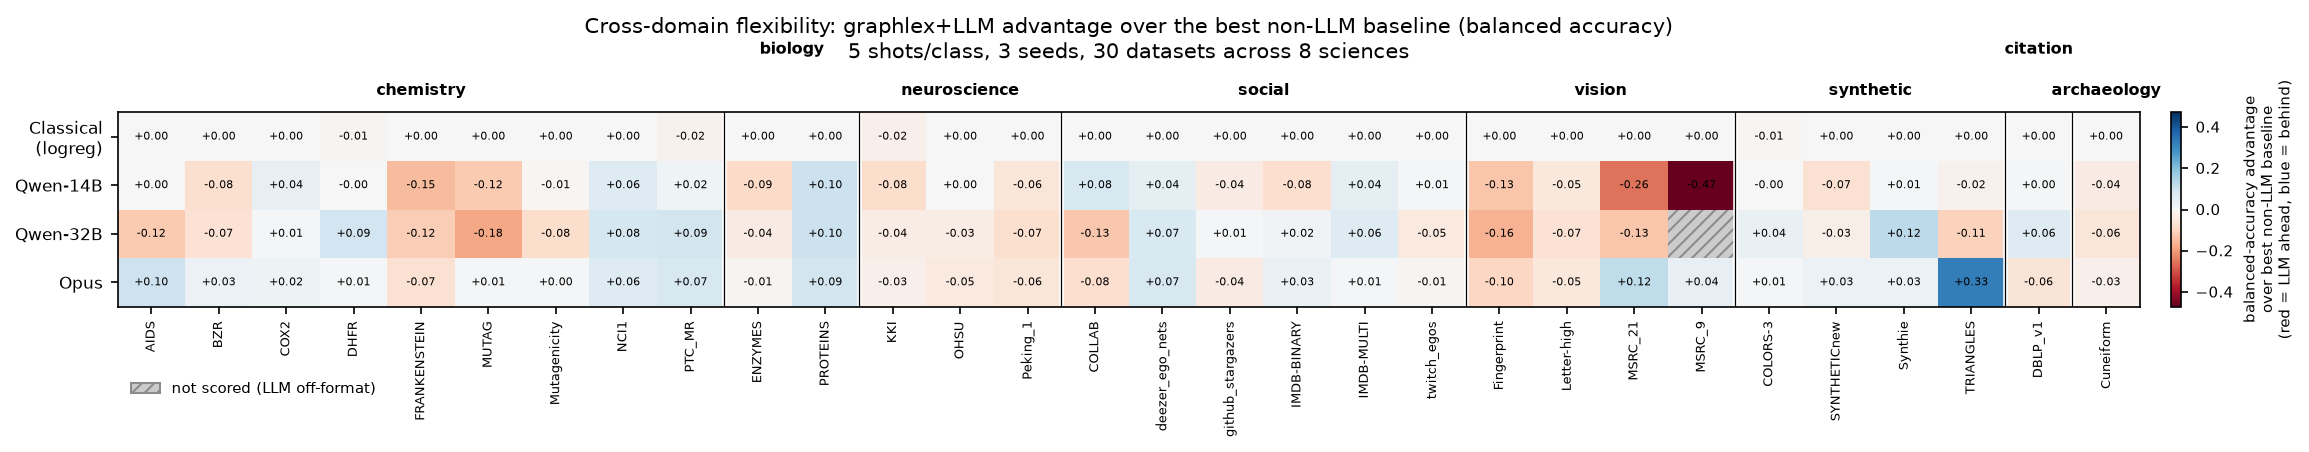
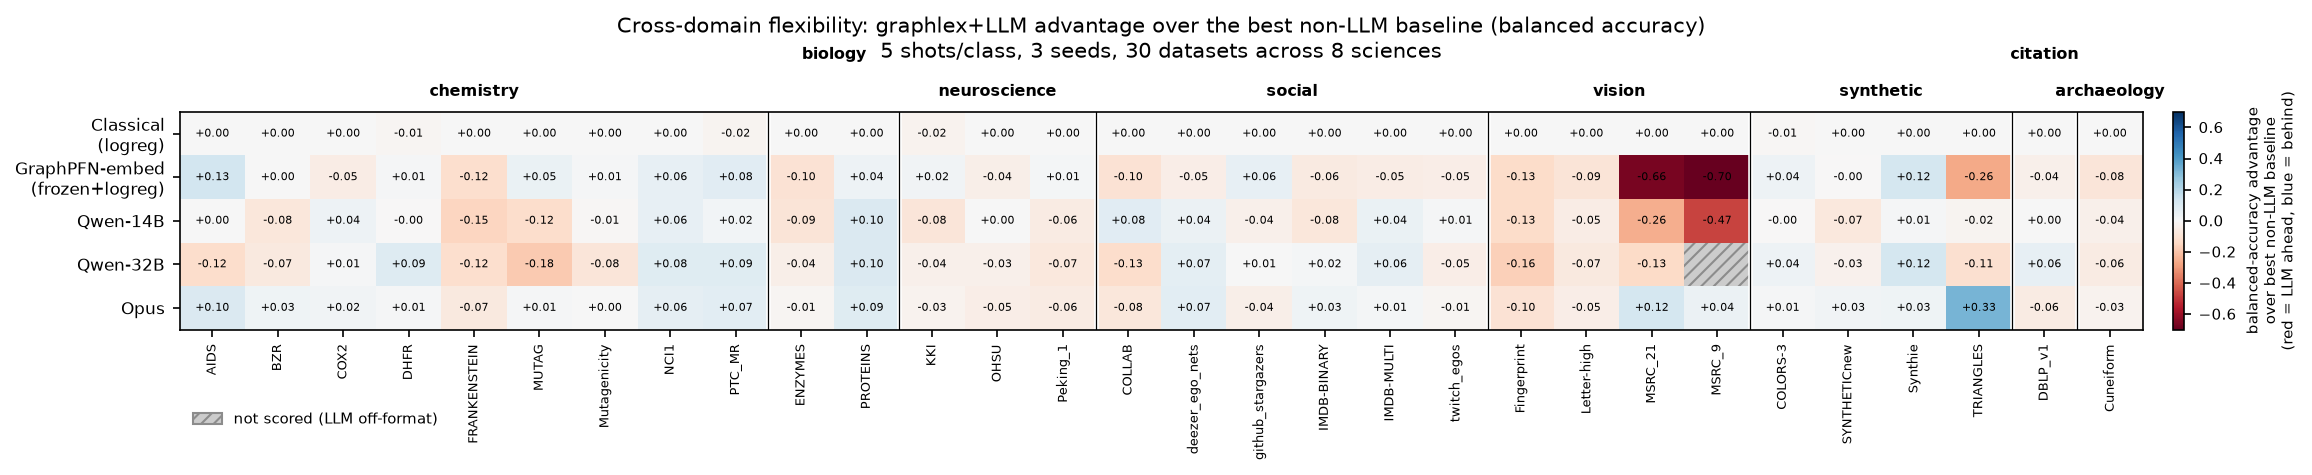
Rep-mode arm: GraphPFN frozen-embeddings + logreg across the 30-dataset sweep
fm_repr_baseline.py: matched few-shot splits (parity-asserted vs sweep manifest),
StandardScaler+logreg on graphpfn pooled embeddings, balanced acc, 3 seeds. Added
as the GraphPFN-embed row in the regret heatmap (make_figures.py); figures regenerated.

Changed region(s): [[0.0, 0.1549, 0.9978, 0.9602], [0.2495, 0.031, 0.7484, 0.1549], [0.8731, 0.0929, 0.9043, 0.1239]]

diff --git a/eval/fm_repr_baseline.py b/eval/fm_repr_baseline.py
@@ -1,0 +1,271 @@
+"""Foundation-model representation baseline (frozen embeddings + logreg head) at
+the SAME matched few-shot splits as the graphlex sweep.
+
+This adds the "representation mode" arm for graph foundation models: instead of
+asking an LLM to reason over verbalize(facts(G)) or training a GNN end-to-end,
+we take a pretrained graph FM's FROZEN graph-level embedding for each graph and
+fit a tiny LogisticRegression head on the same K labeled graphs/class, then
+predict the same query graphs. Same split, same BALANCED accuracy as every other
+arm -> provably apples-to-apples.
+
+Currently wired for the GraphPFN encoder (encoder='graphpfn'). The embeddings are
+precomputed graph-level pooled vectors at:
+    /home/scratch/fm_embeddings_sweep/graphpfn__{NAME}.npz   key 'pooled' (N_sel,768)
+where row j of 'pooled' corresponds to the j-th SELECTED graph under the sweep's
+selection rule:
+    ds   = TUDataset(TU_ROOT, name)
+    cap  = min(len(ds), POOL_CAP)
+    idx  = [i<cap : ds[i].num_nodes>=3 and ds[i].edge_index.size(1)>=1]
+i.e. pooled[j] <-> ds[idx[j]]. So we reconstruct the sweep's (shot, q) POSITION
+lists (which index into idx) and use them directly to slice 'pooled'.
+
+Matched-split protocol (byte-for-byte the sweep / balanced_rescore.py / gnn_baseline.py):
+    spc  = max(2, min(SHOTS_PER_CLASS, MAX_SHOTS // n_classes))
+    per seed in SEEDS:
+        rng = RandomState(seed)
+        pos[c] = rng.permutation(positions with y==c)
+        shot += pos[c][:spc]; q += pos[c][spc:]
+        rng.shuffle(q); q = q[:NQ]; rng.shuffle(shot)
+We assert the reconstructed query truth matches the manifest's stored truth
+(SystemExit on mismatch) before scoring, exactly like gnn_baseline.py.
+
+Head: StandardScaler -> LogisticRegression(max_iter=5000), matching the convention
+in eval/crossdomain_graphcls.py for FM-embedding logreg heads.
+
+Output: a results JSON per dataset at $OUT/<dataset>.json with structure
+    {"dataset","encoder","spc","n_classes","n_query","seeds":[...],
+     "results": {"graphpfn": {seed: balacc, ...}},
+     "mean": {"graphpfn": [mu, sd]}, "config": {...}}
+mirroring the sweep / gnn_baseline.py keying so make_figures.py can fold the
+FM-embed arm in as a new heatmap row.
+
+Run (CPU is fine; logreg on 768-d is fast):
+    python eval/fm_repr_baseline.py
+    python eval/fm_repr_baseline.py --datasets MUTAG,IMDB-BINARY --seeds 11
+"""
+import os
+import sys
+import json
+import time
+import argparse
+
+import numpy as np
+from sklearn.linear_model import LogisticRegression
+from sklearn.preprocessing import StandardScaler
+from torch_geometric.datasets import TUDataset
+
+_HERE = os.path.dirname(os.path.abspath(__file__))
+sys.path.insert(0, _HERE)
+from _common import bal_acc  # noqa: E402
+
+# Split constants -- MUST stay in lockstep with sweep.py / balanced_rescore.py /
+# gnn_baseline.py.
+SEEDS = [11, 22, 33]
+SHOTS_PER_CLASS = 5
+MAX_SHOTS = 60
+NQ = 40
+POOL_CAP = 4000
+
+# Encoder -> embedding-file template. Add kumorfm/gmn here once sweep-wide npz
+# coverage exists; today only graphpfn covers all 30 sweep datasets.
+EMB_DIRS = ["/home/scratch/fm_embeddings_sweep", "/home/scratch/real_fm_embeddings"]
+DEFAULT_ENCODER = "graphpfn"
+EMB_KEY = "pooled"
+
+LOGREG_MAX_ITER = 5000  # matches eval/crossdomain_graphcls.py
+
+
+# ============================================================================
+# Matched splits (mirror sweep.py / balanced_rescore.py / gnn_baseline.py)
+# ============================================================================
+def load_idx_y(ds):
+    cap = min(len(ds), POOL_CAP)
+    idx = [i for i in range(cap)
+           if ds[i].num_nodes >= 3 and ds[i].edge_index.size(1) >= 1]
+    y = np.array([int(ds[i].y) for i in idx])
+    return idx, y
+
+
+def split_for_seed(idx, y, classes, spc, seed):
+    """Return (shot, q) POSITION lists (index into idx) -- identical to sweep.py."""
+    rng = np.random.RandomState(seed)
+    pos = {c: list(rng.permutation([j for j in range(len(idx)) if y[j] == c]))
+           for c in classes}
+    shot, q = [], []
+    for c in classes:
+        shot += pos[c][:spc]
+        q += pos[c][spc:]
+    rng.shuffle(q)
+    q = q[:NQ]
+    rng.shuffle(shot)
+    return shot, q
+
+
+def find_emb(encoder, name):
+    """Locate the npz embedding file for (encoder, dataset name)."""
+    for d in EMB_DIRS:
+        p = os.path.join(d, f"{encoder}__{name}.npz")
+        if os.path.exists(p):
+            return p
+    return None
+
+
+# ============================================================================
+# Per-dataset driver
+# ============================================================================
+def run_dataset(name, tu_root, encoder, seeds, manifest=None, verbose=True):
+    emb_path = find_emb(encoder, name)
+    if emb_path is None:
+        raise FileNotFoundError(
+            f"no {encoder} embedding npz for {name} in {EMB_DIRS}")
+
+    pooled = np.load(emb_path)[EMB_KEY]
+    if not np.isfinite(pooled).all():
+        raise ValueError(f"{emb_path}: non-finite embeddings")
+
+    ds = TUDataset(tu_root, name=name)
+    idx, y = load_idx_y(ds)
+    classes = sorted(set(y.tolist()))
+    spc = max(2, min(SHOTS_PER_CLASS, MAX_SHOTS // len(classes)))
+
+    # Row alignment: pooled[j] <-> ds[idx[j]] (the j-th selected graph).
+    if pooled.shape[0] != len(idx):
+        raise ValueError(
+            f"{name}: embedding rows {pooled.shape[0]} != selected graphs "
+            f"{len(idx)} -- selection rule mismatch; rows do not align.")
+
+    if verbose:
+        print(f"[{name}] enc={encoder} graphs={len(idx)} dim={pooled.shape[1]} "
+              f"classes={len(classes)} spc={spc} NQ<= {NQ}", flush=True)
+
+    results = {encoder: {}}
+    nq_seen = {}
+    for seed in seeds:
+        shot, q = split_for_seed(idx, y, classes, spc, seed)
+        ys_shot = y[shot]
+        yq = y[q]
+        nq_seen[seed] = len(q)
+
+        # provable parity: reconstructed query truth must match the manifest,
+        # exactly like gnn_baseline.py.
+        if manifest is not None:
+            mf = manifest.get("files", {}).get(f"{name}/seed{seed}.txt")
+            if mf is not None:
+                recon = [f"CLASS{int(yq[i])}".upper() for i in range(len(yq))]
+                stored = [str(lab).upper() for _, lab in mf["truth"]]
+                if recon != stored:
+                    raise SystemExit(
+                        f"SPLIT MISMATCH for {name} seed{seed}: reconstructed "
+                        f"query truth != manifest truth (len {len(recon)} vs "
+                        f"{len(stored)}). The FM-embed split does not match the "
+                        f"LLM arm.")
+
+        # slice the embedding rows for shot/query graphs (positions index idx,
+        # and pooled is aligned to idx)
+        Xs = pooled[shot]
+        Xq = pooled[q]
+
+        sc = StandardScaler().fit(Xs)
+        clf = LogisticRegression(max_iter=LOGREG_MAX_ITER).fit(
+            sc.transform(Xs), ys_shot)
+        pc = clf.predict(sc.transform(Xq))
+
+        # BALANCED accuracy via the shared metric (exact parity with sweep arms)
+        tl = [(i, f"CLASS{int(yq[i])}") for i in range(len(yq))]
+        pm = {i: f"CLASS{int(pc[i])}".upper() for i in range(len(pc))}
+        ba = bal_acc(tl, pm)
+        ba = float(ba) if ba is not None else 0.0
+        results[encoder][str(seed)] = ba
+        if verbose:
+            print(f"  seed{seed} balacc={ba:.3f}", flush=True)
+
+    vals = [results[encoder][str(s)] for s in seeds if str(s) in results[encoder]]
+    mean = {encoder: ([float(np.mean(vals)), float(np.std(vals))] if vals else None)}
+
+    return {
+        "dataset": name,
+        "encoder": encoder,
+        "spc": spc,
+        "n_classes": len(classes),
+        "n_query": nq_seen,
+        "seeds": list(seeds),
+        "emb_path": emb_path,
+        "emb_dim": int(pooled.shape[1]),
+        "results": results,
+        "mean": mean,
+        "config": {
+            "head": "StandardScaler+LogisticRegression",
+            "logreg_max_iter": LOGREG_MAX_ITER,
+            "shots_per_class": SHOTS_PER_CLASS, "max_shots": MAX_SHOTS,
+            "nq": NQ, "pool_cap": POOL_CAP, "emb_key": EMB_KEY,
+        },
+    }
+
+
+# ============================================================================
+# main
+# ============================================================================
+def main():
+    ap = argparse.ArgumentParser()
+    ap.add_argument("--datasets", default=None,
+                    help="comma list; default = all in manifest")
+    ap.add_argument("--encoder", default=DEFAULT_ENCODER)
+    ap.add_argument("--seeds", default=",".join(map(str, SEEDS)))
+    ap.add_argument("--tu-root", default=os.environ.get(
+        "TU_ROOT", "/home/scratch/tudata"))
+    ap.add_argument("--out", default=os.environ.get(
+        "FM_REPR_OUT", "/home/scratch/bench_out/fm_repr"))
+    ap.add_argument("--manifest", default=os.environ.get(
+        "SWEEP_MANIFEST", "/home/scratch/bench_out/sweep/manifest.json"))
+    ap.add_argument("--force", action="store_true",
+                    help="recompute even if result JSON exists")
+    args = ap.parse_args()
+
+    out_dir = os.path.join(args.out, args.encoder)
+    os.makedirs(out_dir, exist_ok=True)
+    seeds = [int(s) for s in args.seeds.split(",") if s.strip()]
+
+    manifest = None
+    if os.path.exists(args.manifest):
+        manifest = json.load(open(args.manifest))
+
+    if args.datasets:
+        datasets = [d.strip() for d in args.datasets.split(",") if d.strip()]
+    elif manifest is not None:
+        datasets = sorted(manifest["baselines"].keys())
+    else:
+        raise SystemExit("no --datasets and no manifest to enumerate from")
+
+    print(f"encoder={args.encoder} datasets={len(datasets)} seeds={seeds} "
+          f"out={out_dir}", flush=True)
+
+    done, failed = [], []
+    for name in datasets:
+        out_path = os.path.join(out_dir, f"{name}.json")
+        if os.path.exists(out_path) and not args.force:
+            print(f"SKIP {name} (exists: {out_path})", flush=True)
+            done.append(name)
+            continue
+        t0 = time.time()
+        try:
+            res = run_dataset(name, args.tu_root, args.encoder, seeds,
+                              manifest=manifest)
+            json.dump(res, open(out_path, "w"), indent=1)
+            m = res["mean"][args.encoder]
+            print(f"DONE {name} ({time.time() - t0:.1f}s) "
+                  f"balacc={m[0]:.3f}+-{m[1]:.3f} -> {out_path}", flush=True)
+            done.append(name)
+        except SystemExit:
+            raise
+        except Exception as e:
+            print(f"ERR {name}: {type(e).__name__}: {str(e)[:160]}", flush=True)
+            failed.append((name, f"{type(e).__name__}: {str(e)[:160]}"))
+
+    print(f"\nALL DONE: {len(done)} ok, {len(failed)} failed", flush=True)
+    if failed:
+        for n, e in failed:
+            print(f"  FAILED {n}: {e}", flush=True)
+
+
+if __name__ == "__main__":
+    main()

diff --git a/eval/make_figures.py b/eval/make_figures.py
@@ -42,6 +42,7 @@ REPO = "/home/scratch/Dropbox/Seth/Research/MLGHrepos/graphlex"
 EVAL = os.path.join(REPO, "eval")
 FIGDIR = os.path.join(EVAL, "figures")
 SWEEP = "/home/scratch/bench_out/sweep"
+FM_REPR = "/home/scratch/bench_out/fm_repr"  # per-encoder FM-embedding+logreg arm
 LABELCURVE = "/home/scratch/bench_out/labelcurve"
 ZEROLABEL = "/home/scratch/bench_out/zerolabel"
 CACHE = os.path.join(FIGDIR, "_sweep_cache.json")
@@ -55,6 +56,24 @@ DOMAIN_ORDER = ["chemistry", "biology", "neuroscience", "social",
 # Shared answer-line parser + balanced-accuracy metric (see eval/_common.py).
 sys.path.insert(0, EVAL)
 from _common import parse_ans, bal_acc  # noqa: E402
+
+
+# ===========================================================================
+# FM representation-mode arm (frozen embeddings + logreg head)
+# ===========================================================================
+def fm_repr_balacc(dataset, encoder="graphpfn"):
+    """Mean balanced accuracy of the FM-embedding+logreg arm for one dataset.
+
+    Reads the per-dataset JSON written by eval/fm_repr_baseline.py (same matched
+    few-shot splits + BALANCED accuracy as every sweep arm). Returns None if the
+    result file is missing so the heatmap shows a hatched 'not scored' cell.
+    """
+    p = os.path.join(FM_REPR, encoder, f"{dataset}.json")
+    if not os.path.exists(p):
+        return None
+    res = json.load(open(p))
+    m = res.get("mean", {}).get(encoder)
+    return float(m[0]) if m else None
 
 
 # ===========================================================================
@@ -89,6 +108,7 @@ def compute_sweep_table(refresh=False):
             "qwen14": br.llm_balacc(ds, "qwen"),
             "qwen32": br.llm_balacc(ds, "qwen32"),
             "opus": br.llm_balacc(ds, "opus"),
+            "graphpfn": fm_repr_balacc(ds, "graphpfn"),
         })
     with open(CACHE, "w") as fh:
         json.dump(rows, fh, indent=2)
@@ -111,6 +131,7 @@ def _order_rows(rows):
 
 
 METHODS = [("classic", "Classical\n(logreg)"),
+           ("graphpfn", "GraphPFN-embed\n(frozen+logreg)"),
            ("qwen14", "Qwen-14B"),
            ("qwen32", "Qwen-32B"),
            ("opus", "Opus")]